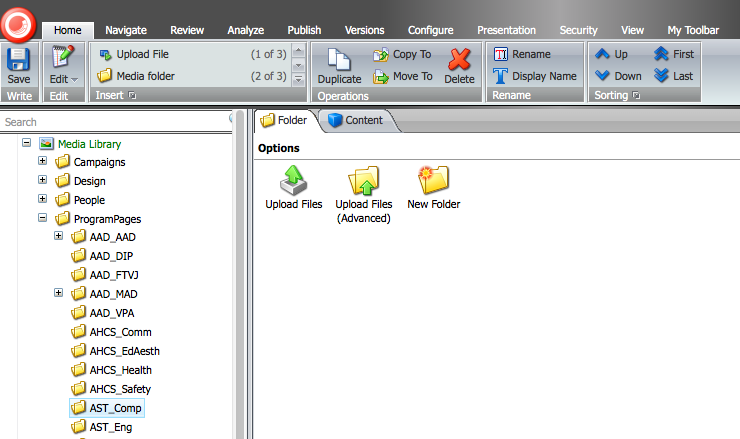
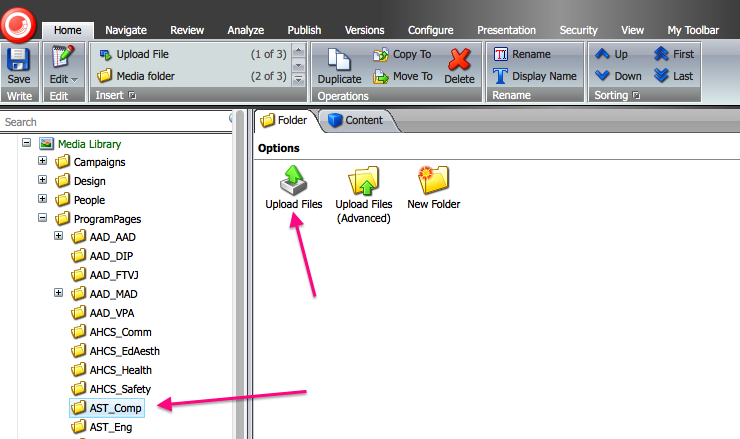
IE stuff

diff --git a/index.html b/index.html
@@ -167,10 +167,36 @@
 			</section>
 
 			<section>
-				<h2>Uploading Files to the Media Library</h2>
+				<h2>Uploading Images and other media to the Media Library</h2>
 				<p>
-					Files will need to be added to the Media Library before uploading them. The Media Library can be accessed through the bottom toolbar in the Content Editor or through the menu accessible using the blue arrow at the top right corner of the page.
+					Files will need to be added to the Media Library <em>before</em> being able to insert them into your pages. 
 				</p>
+				<p>
+					It is recommended to add images to the Media Library through Page Editor mode as doing it this way will add it to the correct folder/directory for that section.
+				</p>
+				<h3>From the Page Editor mode</h3>
+				<p>
+					To access the Media Library from Page Editor mode, navigate to the page you want to edit and click into an editable content area.
+				</p>
+				<p>
+					In the floating palette, click the image icon, which is indicated in the following image with a <span class="pink">pink arrow</span>.
+				</p>
+				<img src="img/img-page-editor.png" alt="Add images in Page Editor mode using the floating palette.">
+				<p>
+					Once you click the image icon, you will have the chance to upload an image to add in this content block or choose from already uploaded images. Click the Upload button. A small box will pop up and from here you can add an image. Click Browse to select an image from your computer. 
+				</p>
+				<p>
+					If you only want to upload images and not add them to a content block, you can access the Media Library through the Content Editor. To enter the Content Editor from Page Editor mode, click on Edit. See the <span class="turq">turquoise arrow</span> in the above image. See the following section for more information.
+				</p>
+				<img src="img/image-upload.png" alt="Uploading an image while in Page Editor mode using the floating palette.">
+				<h3>From the Content Editor mode</h3>
+				<p>
+					If you reached the Content Editor from Page Editor mode, you will see a split-pane version. The Media Library can be accessed through the bottom toolbar in the Content Editor or through the menu accessible using the blue menu at the top right corner of the page. Both are indicated by <span class="pink">pink arrows</span> in the following image.
+				</p>
+				<p>
+					Using the Media Library from the Content Editor is useful to see all media, not just page-specific media.
+				</p>
+				<img src="img/split-pane-ce.png" alt="Split-pane view of the Content Editor and the site. The Content Editor is in the top pane.">
 				<p>
 					Navigate to the folder you want to upload files to then click “Upload Files.” You can upload images, PDF, Word documents and Flash files (SWF).
 				</p>
@@ -199,35 +225,36 @@
 				</p>
 				<h3>Image Information in SiteCore</h3>
 				<p>
-					Once you upload an image, you will be taken to a screen where you can specify its attributes.
+					Once you upload an image, you will be taken to a screen where you can specify its attributes. <em>The only attribute you should add is the Alt text</em>.
 				</p>
 				<p>
-					You will see the image width and height. Changing this will disrupt the original aspect ratio of the image. It is advised not to touch this setting. Should you decide to change this anyway, doing so simply scales the image. It does not change the size of the file. If you have large images that you want to shrink, it is best to do this by using image editing software. See the section <a href="#editing-images">Editing Images for SiteCore</a> for instructions on doing that.
+					The “Alt” (alternate) text is used for screen readers and if the user has images disabled on their computer or device. A short description of the image should be added here. It is good practice to include the alternate text. A red warning will appear next to the field indicating that it should be added if it is blank.
 				</p>
+				<img src="img/img-attr.png" alt="Alternate text has not been added. Red indicates recommended field to complete.">
+				<img src="img/img-alt-text.png" alt="Alternate text is included with this image. This is the right way.">
 				<p>
-					The “Alt” (alternate) text is used for screen readers and if the user has images disabled on their computer or device. It is good practice to write a description of the image in this field even though it is not seen.
+					Among the alternate text field, you will also see fields for the image width and height. Changing these will disrupt the original aspect ratio of the image. <em>It is advised not to modify these values</em>. Should you decide to change this anyway, doing so simply scales the image. It does not reduce or increase the file size. If you have large images, it is recommended that you shrink these using image editing software. See the section <a href="#editing-images">Editing Images for SiteCore</a> for instructions.
 				</p>
-				<img src="img/img-attr.png" alt="Specifying alternate text after image upload.">
 				<p>
 					You do not need to modify any other image attributes. 
 				</p>
 				<p>
 					If you wish to change the file name, right click on the file and click Rename.
 				</p>
-				<p>
-					If you go to the folder where the images are that you uploaded, you can see any warnings that need to be addressed. Alt text is highly recommended. The image in the figure below does not have alt text specified so there is a warning.
-				</p>
-				<img src="img/img-warn.png" alt="You can rename the image by right clicking it and selecting Rename. You can edit image attributes (like alt text) by clicking into the image.">
+				<img src="img/img-warn.png" alt="You can rename the image by right clicking it and selecting Rename. You can edit image attributes (like alt text) by clicking into the image. A warning indicates that the Alt text has not been added.">
 			</section>
 
 			<section>
 				<h2>Changing Images in Page Editor Mode</h2>
 				<p>
-					Some images can be changed/re-referenced but some cannot. Click on the image, then the image icon to change the source image. A box will pop up allowing you to upload an image from your computer or choose from one of your uploaded files.
+					Some images can be changed/re-referenced but some cannot. Click on the image, then the image icon to change the source image. A box will pop up allowing you to upload an image from your computer or choose from one of your uploaded files. Uploading images using Page Editor mode have been described in the previous section. 
+				</p>
+				<p>
+					The window that pops up is a smaller view of the Media Library called the Media Browser. The difference between the Media Library and the Media Browser is the presentation: the Media Browser is presented in a pop-up window in Page Editor mode. You will have access to all of the media uploaded to this section rather than the full Media Library.
 				</p>
 				<img src="img/img-page-editor.jpeg" alt="Editing images in Page Editor mode.">
 				<p>
-					It is recommended that you do not use SiteCore for image editing (cropping, resizing, etc.) and that you instead use photo editing software like Photoshop. See the section <a href="#editing-images">Editing Images for SiteCore</a> for instructions on doing that.
+					It is recommended that you do not use SiteCore for image editing (cropping, resizing, etc.) and that you instead use photo editing software like Photoshop. See the section <a href="#editing-images">Editing Images for SiteCore</a> for instructions.
 				</p>
 			</section>
 
@@ -243,7 +270,7 @@
 					</li>
 				</ul>
 				<p>
-					Once you have made your changes, you will need to save them and Submit them to a moderator. This will move the document up in the workflow. 
+					Once you have made your changes, you will need to save them and Submit them to a moderator. This will move the document up in the workflow. A moderator is an editor with higher privileges.
 				</p>
 				<p>
 					Click Check-In once you are done editing it to unlock it from your editing privilege so that others may edit it if need be.
@@ -394,6 +421,13 @@
 				<p>
 					Remembering this little snippet of text will allow you to painlessly navigate the site and load the Page Editor only when needed, provided that you are logged in.
 				</p>
+				<h3>Quickly Accessing the Content Editor</h3>
+				<p>
+					Page Editor mode is great for navigating and editing small blocks of content but if you find that you want to quickly access the content editor, add the following text after <b>/sitecore/</b> to the URL. 
+				</p>
+				<code>
+					shell/Applications/Content%20Manager/
+				</code>
 			</section>
 
 			<section>

diff --git a/css/ie.css b/css/ie.css
@@ -1,4 +1,3 @@
-@import 'reset.css';
 body {
   width: 100%;
   *zoom: 1;
@@ -23,6 +22,51 @@ body:after {
 
     More info at: http://lesselements.com
 -----------------------------------------------------*/
+body {
+  text-rendering: optimizeLegibility;
+}
+h1 span {
+  display: inline;
+}
+a#gotonav_mobile {
+  display: none;
+}
+a#gotonav_desktop {
+  display: block;
+  position: fixed;
+  bottom: 5px;
+  right: 5px;
+  height: 28px;
+}
 #site {
   width: 960px;
+}
+#site #content {
+  display: inline;
+  float: left;
+  width: 65%;
+  margin: 0 0.8333333333333334%;
+}
+#site #nav {
+  display: inline;
+  float: left;
+  width: 27.500000000000004%;
+  margin: 0 0.8333333333333334%;
+  box-sizing: border-box;
+  -moz-box-sizing: border-box;
+  margin-top: 0;
+}
+#footer {
+  margin-top: 3em;
+}
+#footer a#gotonav_desktop {
+  background: #efefef;
+  color: #3d3d3d;
+  padding: 0.3em;
+  text-decoration: none;
+  line-height: 1.3em;
+  text-align: center;
+  border: 1px solid #d7d7d7;
+  font-size: 0.7em;
+  font-weight: 700;
 }

diff --git a/css/ie.less b/css/ie.less
@@ -1,7 +1,6 @@
 // Imports
 @import 'grid.less';
 @import 'elements.less';
-@import 'reset.css';
 
 // Colours
 @blue: #2173AB;
@@ -25,8 +24,56 @@
 	}
 }
 
+.box-sizing() {
+	box-sizing: border-box;
+	-moz-box-sizing: border-box;
+}
+
 // IE styles
 
+body {
+	text-rendering: optimizeLegibility;
+}
+h1 {
+	span {
+		display: inline;
+	}
+}
+#header {
+
+}
+a#gotonav_mobile {
+	display: none;
+}
+a#gotonav_desktop {
+	display: block;
+	position: fixed;
+	bottom: 5px;
+	right: 5px;
+	height: 28px;
+}
 #site {
 	width: 960px;
+	#content {
+		.column(8)
+	}
+	#nav {
+		.column(3.5);
+		.box-sizing();
+		margin-top: 0;
+	}
+}	
+#footer {
+	margin-top: 3em;
+	a#gotonav_desktop {
+		background: #efefef;
+		color: @mediumgrey;	
+		padding: 0.3em;
+		text-decoration: none;
+		line-height: 1.3em;
+		text-align: center;
+		border: 1px solid @grey;
+		font-size: 0.7em;
+		font-weight: 700;
+	}
 }

diff --git a/css/style.css b/css/style.css
@@ -61,6 +61,9 @@ p {
 b {
   font-weight: 700;
 }
+em {
+  font-style: italic;
+}
 code {
   background: #efefef;
   padding: 0.5em;
@@ -136,6 +139,14 @@ code {
   text-align: center;
   background: #efefef;
   padding: 0.2em;
+}
+#site #content span.pink {
+  color: #ff008c;
+  font-weight: 700;
+}
+#site #content span.turq {
+  color: #00ced1;
+  font-weight: 700;
 }
 #site #content section {
   margin-bottom: 4em;

diff --git a/css/style.less b/css/style.less
@@ -78,6 +78,9 @@ p {
 b {
 	font-weight: 700;
 }
+em {
+	font-style: italic;
+}
 
 code {
 	background: #efefef;
@@ -143,6 +146,14 @@ code {
 			text-align: center;
 			background: #efefef;
 			padding: 0.2em;
+		}
+		span.pink {
+			color: #ff008c;
+			font-weight: 700;
+		}
+		span.turq {
+			color: #00ced1;
+			font-weight: 700;
 		}
 		section {
 			margin-bottom: 4em;
